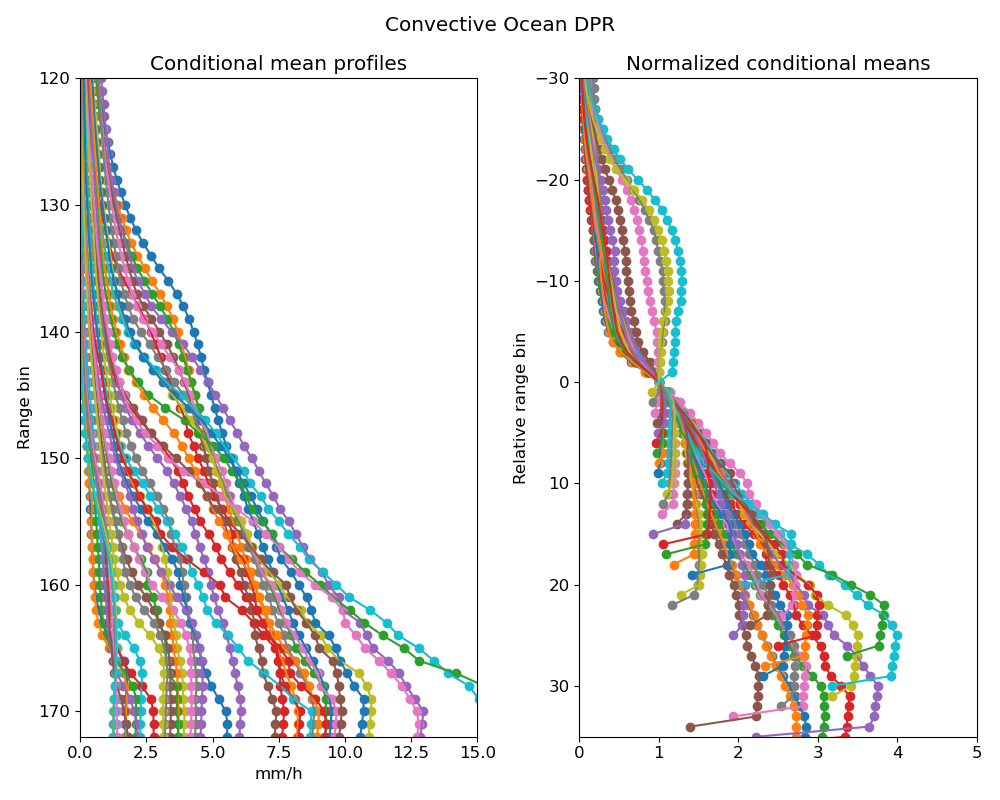
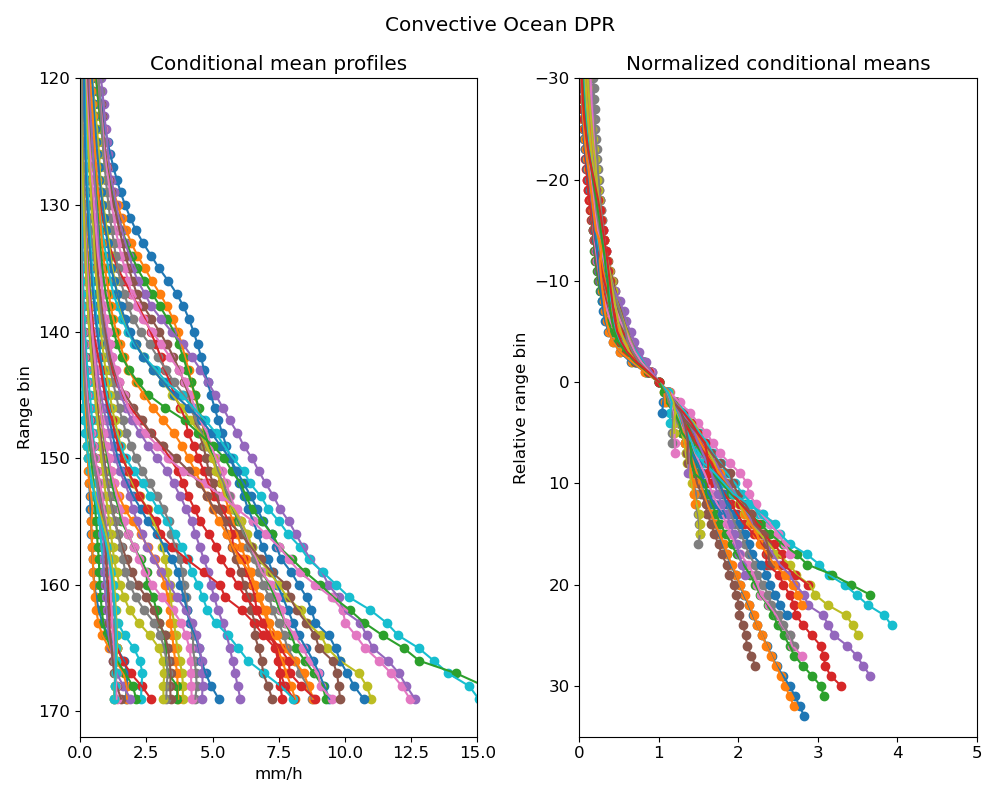
conv ocean DPR

diff --git a/avgProfs/getAvgProfilesCvOceanDPR.py b/avgProfs/getAvgProfilesCvOceanDPR.py
@@ -159,7 +159,7 @@ for f in fs[:]:
     
     a=np.nonzero(sfcType==0)
     b=np.nonzero(bcf[a]>168)
-    zm[:,170:]=np.nan
+    zm[:,130:]=np.nan
     zmLs.extend(zm[a][b])
     bzdL.extend(bzd[a][b])
     bcfL.extend(bcf[a][b])
